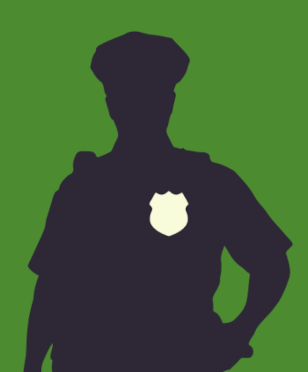
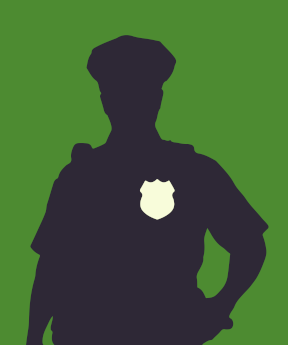
images optim

diff --git a/pages/corporatif/serveur-gaffeur.js b/pages/corporatif/serveur-gaffeur.js
@@ -15,20 +15,26 @@ export default function ServeurGaffeur() {
         <h2>Le serveur gaffeur</h2>
 
         <div className={styles.info}>
-          <img src="/assets/images/serveur-2.png" />
+          <div className={styles.infoImage}>
+            <img src="/assets/images/serveur-2.png" />
+          </div>
           <p>
             Dissimulé parmi le personnel en salle, le serveur Hervé Plante additionne les maladresses mais multiplie les
             prouesses pour égayer vos clients. D&apos;une redoutable efficacité, il s&apos;inscrit dans la tradition des
-            Clouzot, Pierre Richard et Olivier Guimond. En faisant appel au Serveur Gaffeur, vous êtes assuré de marquer
-            l&apos;imaginaire de vos employés.es. en les faisant rire aux éclats!
+            Clouzot, Pierre Richard et Olivier Guimond. En faisant appel au Serveur Gaffeur, vous êtes assurés de
+            marquer l&apos;imaginaire de vos employés.es. en les faisant rire aux éclats!
           </p>
         </div>
         <div className={styles.tagLine1}>
           <h2 className={styles.tagLine}>Du cocktail au dessert, il devient...UNE VÉRITABLE CATASTROPHE AMBULANTE !</h2>
-          <img src="/assets/images/sil-serveur.png" />
+          <div className={styles.tagLineImage}>
+            <img src="/assets/images/sil-serveur.png" />
+          </div>
         </div>
         <div className={styles.tagLine2}>
-          <img src="/assets/images/serveur-3.png" />
+          <div className={styles.tagLine2Image}>
+            <img src="/assets/images/serveur-3.png" />
+          </div>
           <h2 className={styles.tagLine}>QUAND LES MALHEURS DE L&apos;UN FONT LE DÉLICE DES AUTRES…!</h2>
         </div>
       </div>

diff --git a/components/Home/SectionA.js b/components/Home/SectionA.js
@@ -6,7 +6,9 @@ export default function SectionA() {
       <h1>Divertissement corporatif pour tournois de golf et autres événements</h1>
       <div className={styles.cardContainer}>
         <div className={styles.card}>
-          <img src={'/assets/images/drole-icon.png'} />
+          <div className={styles.image}>
+            <img src={'/assets/images/drole-icon.png'} />
+          </div>
           <div className={styles.cardText}>
             <p>Drôle</p>
             <p>
@@ -19,7 +21,9 @@ export default function SectionA() {
           </div>
         </div>
         <div className={styles.card}>
-          <img src={'/assets/images/vif-icon.png'} />
+          <div className={styles.image}>
+            <img src={'/assets/images/vif-icon.png'} />
+          </div>
           <div className={styles.cardText}>
             <p>Vif d&apos;esprit</p>
             <p>
@@ -32,7 +36,9 @@ export default function SectionA() {
           </div>
         </div>
         <div className={styles.card}>
-          <img src={'/assets/images/pro-icon.png'} />
+          <div className={styles.image}>
+            <img src={'/assets/images/pro-icon.png'} />
+          </div>
           <div className={styles.cardText}>
             <p>Professionnel</p>
             <p>

diff --git a/components/Head.js b/components/Head.js
@@ -6,9 +6,19 @@ export default function Head({ title, description }) {
       <meta charset="utf-8"></meta>
       <meta name="viewport" content="width=device-width, initial-scale=1.0, viewport-fit=cover"></meta>
       <meta httpEquiv="x-ua-compatible" content="ie=edge"></meta>
-      <link rel="icon" href="/favicon.ico" />
+
+      <link rel="apple-touch-icon" sizes="180x180" href="assets/favicon/apple-touch-icon.png"></link>
+      <link rel="icon" type="image/png" sizes="32x32" href="assets/favicon/favicon-32x32.png"></link>
+      <link rel="icon" type="image/png" sizes="16x16" href="assets/favicon/favicon-16x16.png"></link>
+      <link rel="manifest" href="assets/favicon/site.webmanifest"></link>
+
       <title>{title}</title>
       <meta name="description" content={description} />
+
+      <meta property="og:title" content="Denis Sénéchal - Divertissement corporatif pour tournois de golf et autres événements." />
+      <meta property="og:type" content="website" />
+      <meta property="og:url" content="https://www.animationdenissenechal.com" />
+      <meta property="og:image" content="assets/images/golf.png" />
     </_Head>
   );
 }

diff --git a/pages/corporatif/faux-policier.js b/pages/corporatif/faux-policier.js
@@ -15,7 +15,9 @@ export default function FauxPolicier() {
         <h2>Le faux policier</h2>
 
         <div className={styles.description}>
-          <img src={'/assets/images/golf-2.png'} />
+          <div className={styles.golfImage}>
+            <img src={'/assets/images/golf-2.png'} />
+          </div>
           <p>
             Embusqué dans son cart d’officier et flanqué de son séchoir à cheveux qui lui sert de radar, le Sergent Ray
             Tracy intercepte les voiturettes et remet de fausses contraventions aux occupants médusés. Détente assurée
@@ -49,7 +51,9 @@ export default function FauxPolicier() {
             </p>
           </div>
 
-          <img src={'/assets/images/sil-policier.png'} />
+          <div className={styles.infoImage}>
+            <img src={'/assets/images/sil-policier.png'} />
+          </div>
         </div>
       </div>
     </>

diff --git a/components/Home/SectionB.js b/components/Home/SectionB.js
@@ -6,14 +6,18 @@ export default function SectionB() {
     <div className={`${styles.container} max-width-container`}>
       <Link href="/corporatif/faux-policier">
         <div className={styles.card}>
-          <img src={'/assets/images/policier-portrait.png'} />
+          <div className={styles.image}>
+            <img src={'/assets/images/policier-portrait.png'} />
+          </div>
 
           <p>Le faux policier</p>
         </div>
       </Link>
       <Link href="/corporatif/serveur-gaffeur">
         <div className={styles.card}>
-          <img src={'/assets/images/serveur-portrait.png'} />
+          <div className={styles.image}>
+            <img src={'/assets/images/serveur-portrait.png'} />
+          </div>
 
           <p>Le serveur gaffeur</p>
         </div>

diff --git a/styles/FauxPolicier.module.css b/styles/FauxPolicier.module.css
@@ -21,6 +21,10 @@
   margin-left: 0;
 }
 
+.golfImage {
+  max-width: 31rem;
+}
+
 .tagLine {
   margin: 4.5rem auto 5.5rem;
 }
@@ -77,6 +81,10 @@
   margin-bottom: 0.75rem;
 }
 
+.infoImage {
+  max-width: 18rem;
+}
+
 @media (min-width: 40rem) {
   .container {
     max-width: 68rem;
@@ -107,9 +115,10 @@
     display: grid;
     grid-template-columns: 1fr auto;
     align-items: start;
-    justify-items: center;
     padding-right: 1rem;
-    max-width: 72rem;
+    max-width: 60rem;
+    margin-left: auto;
+    margin-right: auto;
   }
 
   .infoText {

diff --git a/pages/a-propos.js b/pages/a-propos.js
@@ -12,7 +12,9 @@ export default function APropos() {
       />
 
       <div className={styles.container}>
-        <img src={'/assets/images/headshot.png'} />
+        <div className={styles.image}>
+          <img src={'/assets/images/headshot.jpg'} />
+        </div>
         <div className={styles.text}>
           <p>
             Comédien professionnel et membre en règle de l’UDA depuis 1987, Denis Sénéchal a cumulé les succès et fait

diff --git a/styles/ServeurGaffeur.module.css b/styles/ServeurGaffeur.module.css
@@ -16,8 +16,16 @@
   align-items: center;
 }
 
+.infoImage {
+  max-width: 25rem;
+}
+
 .tagLine {
   margin: 5rem 0;
+}
+
+.tagLineImage {
+  max-width: 18rem;
 }
 
 .container .tagLine {
@@ -25,7 +33,8 @@
   text-align: center;
 }
 
-.tagLine2 img {
+.tagLine2Image {
+  max-width: 30rem;
   order: 2;
 }
 
@@ -69,7 +78,7 @@
     grid-template-columns: 1fr auto;
   }
 
-  .tagLine2 img {
+  .tagLine2Image {
     order: 0;
   }
 

diff --git a/styles/APropos.module.css b/styles/APropos.module.css
@@ -19,16 +19,21 @@
   margin-top: 0;
 }
 
+.image {
+  max-width: 25rem;
+}
 
 @media (min-width: 60rem) {
   .container {
     display: grid;
     grid-template-columns: auto 1fr;
+    align-items: start;
     padding-left: 1rem;
   }
   
   .text {
     max-width: 32rem;
     margin: 0 auto;
+    padding-top: 0;
   }
 }

diff --git a/styles/SectionB.module.css b/styles/SectionB.module.css
@@ -11,6 +11,11 @@
   margin-bottom: 1.75rem;
 }
 
+.image {
+  width: 100%;
+  max-width: 25rem;
+}
+
 .card p {
   text-transform: uppercase;
 }
@@ -24,5 +29,9 @@
   .container {
     flex-flow: row;
     justify-content: space-around;
+  }
+
+  .image {
+    max-width: 18rem;
   }
 }

diff --git a/components/Home/Temoignages.js b/components/Home/Temoignages.js
@@ -36,7 +36,7 @@ export default function Temoignages() {
             </p>
           </div>
         </Carousel>
-        <div className={styles.imageWrapper}>
+        <div className={styles.image}>
           <img src={'/assets/images/scene.png'} />
         </div>
       </div>

diff --git a/styles/Contact.module.css b/styles/Contact.module.css
@@ -62,8 +62,8 @@
     display: grid;
     grid-template-columns: 1fr 1fr;
     justify-items: center;
-    max-width: unset;
-    margin: unset;
+    max-width: var(--content-max-width);
+    margin: 0 auto;
   }
 
   .form {
